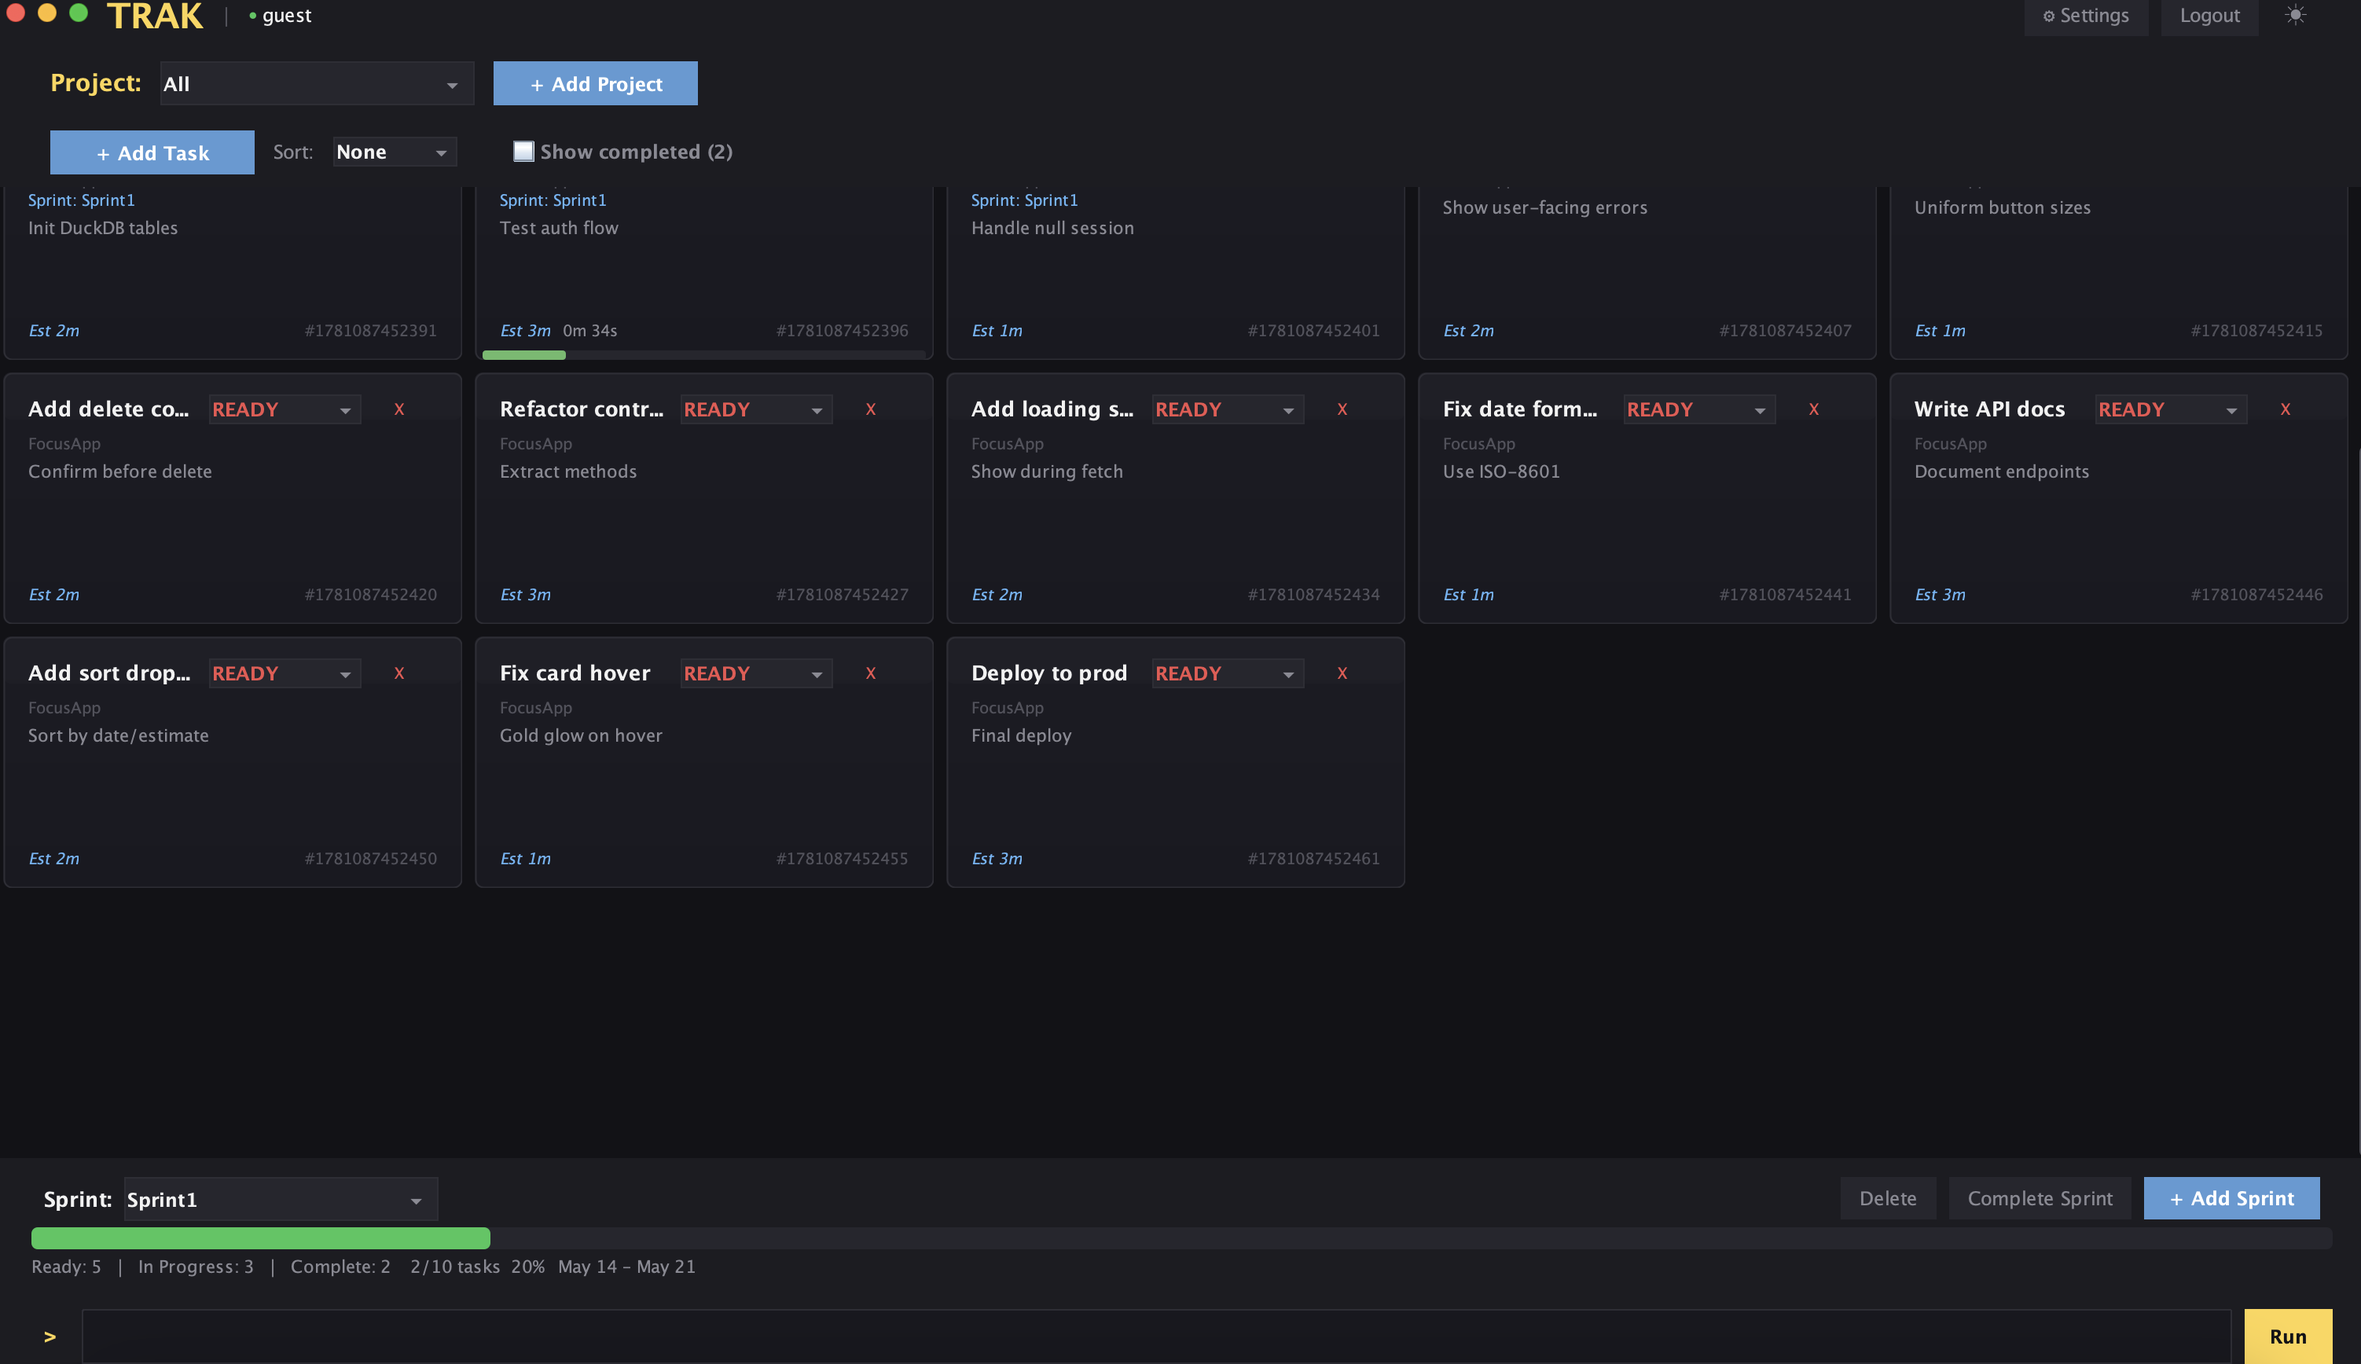
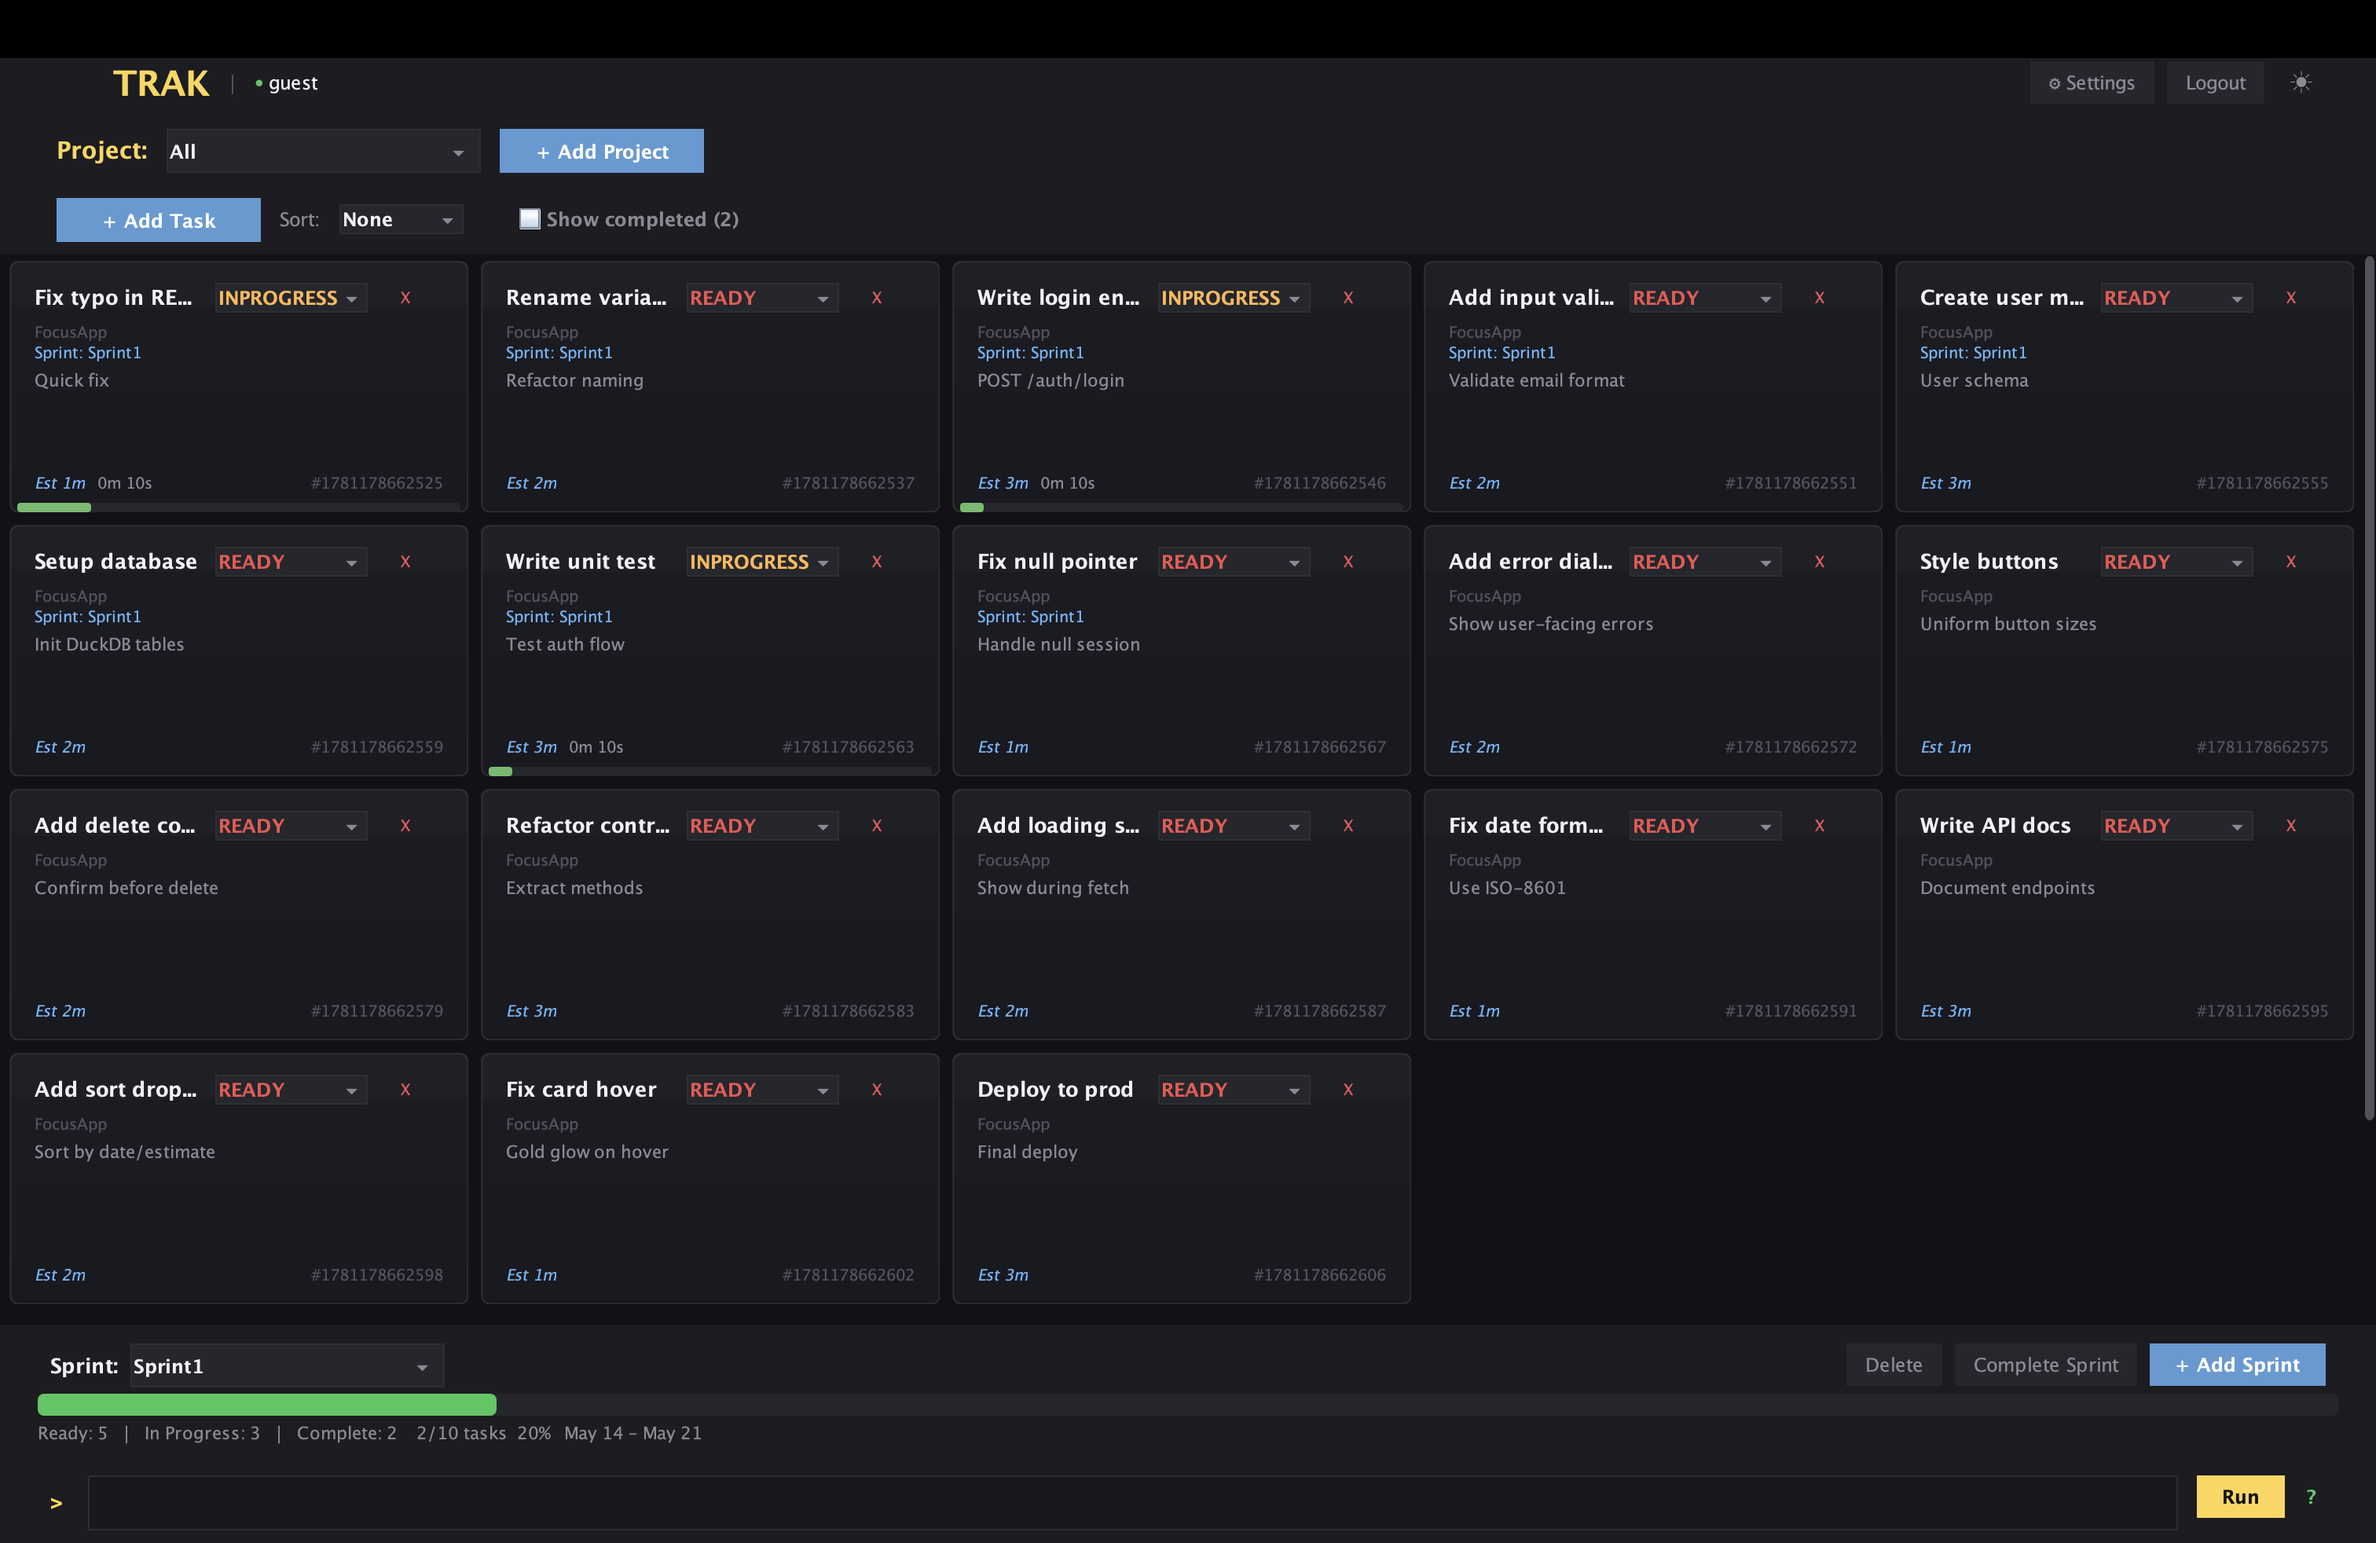
Version: 1.0.0

diff --git a/docs/DESIGN.md b/docs/DESIGN.md
@@ -181,12 +181,11 @@ task.trak.model/            ← Shared types (moved from task.trak.api)
   Session                         Session state
   dto/                            TaskDTO, UserDTO, ProjectDTO, SprintDTO, BacklogDTO
   dto/request/                    CreateTaskRequest, UpdateTaskRequest, etc. (with validate() methods)
-  exception/                      TrakException, ValidationException, EntityNotFoundException,
-                                  DuplicateEntityException, AuthenticationException (all unchecked)
+  exception/                      TrakException, ValidationException, EntityNotFoundException (all unchecked)
   util/                           TimeUtil, TeeOutputStream
 
 task.trak.api.service/      ← Service interfaces (only package remaining in api)
-  ServiceFactory, TaskService, UserService, ProjectService, SprintService, BacklogService
+  ServiceFactory, AuthService, TaskService, UserService, ProjectService, SprintService, BacklogService
 
 task.trak.app.server/       ← Server (never imported by client)
   server/                         TrakServer, REST route handlers, AuthFilter
@@ -209,20 +208,19 @@ task.trak.app.client/       ← Client (never imports from server)
   gui/viewmodel/event/            CommandEvent, CommandEventBus, CommandEventType, CommandListener
   gui/controller/                 GUIController, AuthController, TaskController,
                                   ProjectController, SprintController
-                                  (controllers receive HTTP services via constructor injection)
-  gui/view/                       DataView (abstract), MainFrame, TrakTheme, GlassPanel,
+                                  (controllers depend on service interfaces via constructor injection)
+  gui/view/                       DataView (abstract), MainFrame, TrakTheme,
                                   DashboardView, CommandInputPanel
   gui/view/task/                  TasksView, TaskCardPanel, TaskAddView, TaskEditView, TimeInputPanel
   gui/view/project/               ProjectsView, ProjectCreateView, ProjectAddView, ProjectSelectorPanel
   gui/view/sprint/                SprintView, SprintAddView, SprintProgressPanel
-  gui/view/auth/                  LoginView, SignUpView, LogOutView
-  gui/view/error/                 ErrorView, ErrorAlertView,
-                                  UserNameAlreadyExistErrorView,
-                                  EmailAlreadyExistErrorView,
-                                  TaskBeforeProjectErrorView
+  gui/view/auth/                  LoginView, SignUpView, AuthPromptView
+  gui/view/error/                 ErrorView
   gui/view/form/                  FormDialogView, FormPanel
-  gui/view/panel/                 OutputPanel, StatusPanel
+  gui/view/panel/                 StatusPanel
+  gui/view/util/                  TableUtil
   gui/view/settings/              ChangePasswordView, DeleteAccountView
+  gui/view/setup/                 SetupWizard
   config/                         WorkspaceConfig
 ```
 
@@ -234,7 +232,7 @@ task.trak.app.client/       ← Client (never imports from server)
 - `ServiceFactory.registerLocalServices()` — registers direct service implementations (server/local mode)
 - `ServiceFactory.registerHttpServices()` — registers HTTP client implementations (remote mode)
 - CMD classes call `ServiceFactory.taskService()` etc. — transparent swap, zero code changes
-- GUI does not use `ServiceFactory` — controllers receive HTTP services via constructor injection. In `--local` mode, the GUI starts an embedded TrakServer on a random port and connects via HTTP.
+- GUI does not use `ServiceFactory` — controllers depend on service interfaces (e.g. `TaskService`, `AuthService`) via constructor injection; `GUIMain` passes HTTP implementations. In `--local` mode, the GUI starts an embedded TrakServer on a random port and connects via HTTP.
 
 ## REST API Server
 
@@ -267,7 +265,6 @@ Features:
 - Settings panel (change password, delete account)
 - Undecorated frame with custom title bar, drag-to-move, edge resize
 - Hidden scrollbar on task panel (mousewheel scrolls)
-- GlassPanel rounded containers with gradient background and optional drop shadow
 - FormPanel two-column layout for all form dialogs
 - Task cards with custom-painted rounded corners, gradient background, gold glow hover
 
@@ -354,6 +351,9 @@ make build-server   # Build server jar only
 make test           # Run tests
 make clean          # Clean artifacts
 make reset          # Clean + remove .store and .cache
+make server         # Build + start REST server
+make gui            # Build + launch GUI (local)
+make gui-test       # Build + launch GUI (local + test data)
 make cli            # Build + CLI usage
 make cli-test       # Build + quick CLI test
 make all            # Build + run tests

diff --git a/docs/usage.md b/docs/usage.md
@@ -69,6 +69,9 @@ All clients communicate via HTTP REST API. The `--local` flag starts an embedded
 | `make test` | Run all tests |
 | `make clean` | Clean build artifacts |
 | `make reset` | Clean + remove `.store` and `.cache` |
+| `make server` | Build + start REST server |
+| `make gui` | Build + launch GUI (local) |
+| `make gui-test` | Build + launch GUI (local + test data) |
 | `make cli` | Build + show CLI usage |
 | `make cli-test` | Build + quick CLI test (runs `info`) |
 | `make cli-server` | Build + show CLI remote usage |
@@ -200,7 +203,7 @@ java -jar trak-cli backlog delete MainBacklog
 The GUI uses an MVC architecture with an Observer pattern. Views implement ViewModelChangeListener and register on ViewModels via `addObserver()`, so changes in one domain (e.g. tasks) automatically refresh related views (e.g. sprints).
 
 ### Dark Cinematic Theme
-The GUI uses a centralized dark theme (`TrakTheme`) with a deep charcoal background (#121216), warm gold accent (#FFD54F), and an 8px spacing grid. Typography follows a scale from DISPLAY (22pt bold) down to CAPTION (10pt). All views, dialogs, tables, and input fields inherit the theme automatically via `UIManager` defaults. Custom components include `GlassPanel` (rounded gradient panels with optional drop shadow) and `FormPanel` (two-column form layout used by all dialogs).
+The GUI uses a centralized dark theme (`TrakTheme`) with a deep charcoal background (#121216), warm gold accent (#FFD54F), and an 8px spacing grid. Typography follows a scale from DISPLAY (22pt bold) down to CAPTION (10pt). All views, dialogs, tables, and input fields inherit the theme automatically via `UIManager` defaults. Custom components include `FormPanel` (two-column form layout used by all dialogs).
 
 ### TasksView
 - **Task cards** with gradient backgrounds, gold glow hover, status dropdown, project name, summary, deadline
@@ -230,8 +233,8 @@ The GUI uses a centralized dark theme (`TrakTheme`) with a deep charcoal backgro
 
 ### Authentication Views
 - **LoginView** — login form dialog
-- **SignUpView** — signup form dialog
-- **LogOutView** — logout confirmation
+- **SignUpView** — multi-page signup wizard with Google sign-in
+- **AuthPromptView** — prompts user to log in or sign up when accessing protected features
 - **Continue as Guest** button (logs in as `guest` account)
 - Status bar shows logged-in user
 
@@ -250,7 +253,7 @@ The Settings panel (accessible from the nav bar) provides:
 The GUI uses an undecorated frame with a custom title bar. The title bar supports drag-to-move. Window edges support resize by dragging. The task panel uses a hidden scrollbar (mousewheel scrolls).
 
 ### Error Handling
-- **ErrorAlertView** — modal error alert dialogs for validation and server errors
+- **ErrorView** — themed modal error dialogs for validation and server errors
 
 ---
 

diff --git a/docs/DIAGRAM.md b/docs/DIAGRAM.md
@@ -193,7 +193,7 @@ flowchart TB
         viewmodel[gui/viewmodel/<br>TaskViewModel, ProjectViewModel, ...]
         eventbus[gui/viewmodel/event/<br>CommandEventBus]
         controller[gui/controller/<br>GUIController, AuthController, ...]
-        views[gui/view/<br>TrakTheme, GlassPanel,<br>task/ +TimeInputPanel, form/ +FormPanel,<br>project/, sprint/, auth/, error/, panel/]
+        views[gui/view/<br>TrakTheme, task/ +TimeInputPanel,<br>form/ +FormPanel, util/ +TableUtil,<br>project/, sprint/, auth/, error/, panel/]
     end
 
     subgraph server["task.trak.app.server"]
@@ -330,7 +330,7 @@ flowchart TB
         direction LR
         Colors["Colors<br>BG_DARK, ACCENT,<br>STATUS_*"]
         Fonts["Typography<br>DISPLAY → CAPTION<br>+ MONO"]
-        Spacing["Spacing Grid<br>SP_XS(4) → SP_3XL(48)"]
+        Spacing["Spacing Grid<br>SP_XS(4) → SP_XL(24)"]
     end
 
     subgraph Methods["Styling Methods"]
@@ -343,7 +343,6 @@ flowchart TB
     TrakTheme --> Methods
 
     subgraph CustomPanels["Custom Panels"]
-        GlassPanel["GlassPanel<br>rounded gradient + shadow"]
         FormPanel["FormPanel<br>two-column GridBag"]
     end
 
@@ -633,25 +632,13 @@ classDiagram
         missing user, task, project, sprint
     }
 
-    class AuthenticationException {
-        bad credentials or expired token
-    }
-
-    class DuplicateEntityException {
-        username or email already exists
-    }
-
     RuntimeException <|-- TrakException
     TrakException <|-- ValidationException
     TrakException <|-- EntityNotFoundException
-    TrakException <|-- AuthenticationException
-    TrakException <|-- DuplicateEntityException
 
     style TrakException fill:#fff3e0,stroke:#e65100
     style ValidationException fill:#e3f2fd,stroke:#1565c0
     style EntityNotFoundException fill:#e3f2fd,stroke:#1565c0
-    style AuthenticationException fill:#fce4ec,stroke:#c62828
-    style DuplicateEntityException fill:#e3f2fd,stroke:#1565c0
 ```
 
 All exceptions are unchecked (`RuntimeException`). Route handlers catch `TrakException` subclasses and map them to HTTP status codes (400, 401, 404, 409).

diff --git a/README.md b/README.md
@@ -1,6 +1,6 @@
 # Trak
 
-**Version 0.1.0**
+**Version 1.0.0**
 
 A sprint planning and task tracking tool. Create projects, break work into tasks, plan sprints, and track progress. When a sprint is active, in-progress tasks show a live countdown against their estimate. Sprints track completed vs total task counts. Available as a CLI, Swing desktop GUI, and REST API server.
 
@@ -19,14 +19,14 @@ make gui-test  # build + launch GUI with test data
 Or start the server and connect clients:
 
 ```bash
-make build-server && java -jar trak-server   # Terminal 1: start REST API
+make server                                  # Terminal 1: start REST API
 java -jar trak-gui                           # Terminal 2: launch GUI
 java -jar trak-cli --remote tasks            # Terminal 3: CLI
 ```
 
 ## Build
 
-Requires Java 23+ and Gradle.
+Requires Java 23+ and Gradle 9.5+.
 
 ```bash
 make build          # build all 3 jars
@@ -37,6 +37,7 @@ make test           # run tests
 make clean          # clean artifacts
 make reset          # clean + remove .store and .cache
 
+make server         # build + start REST server
 make gui            # build + launch GUI (local)
 make gui-test       # build + launch GUI (local + test data)
 make gui-server     # build + launch GUI (remote)
